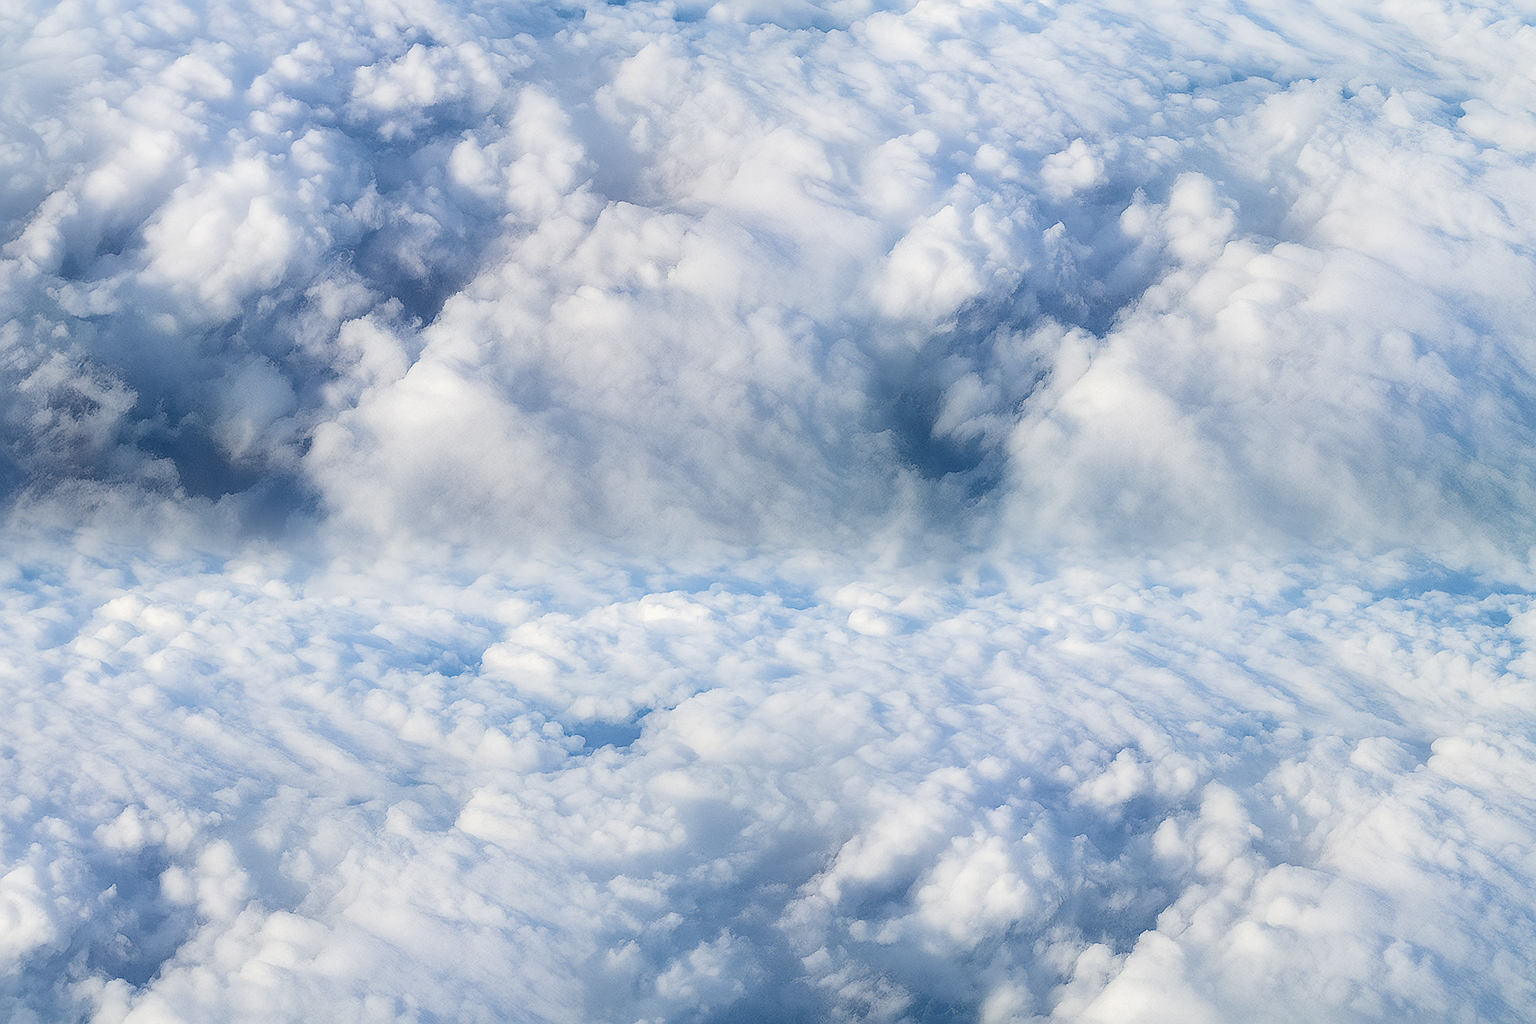
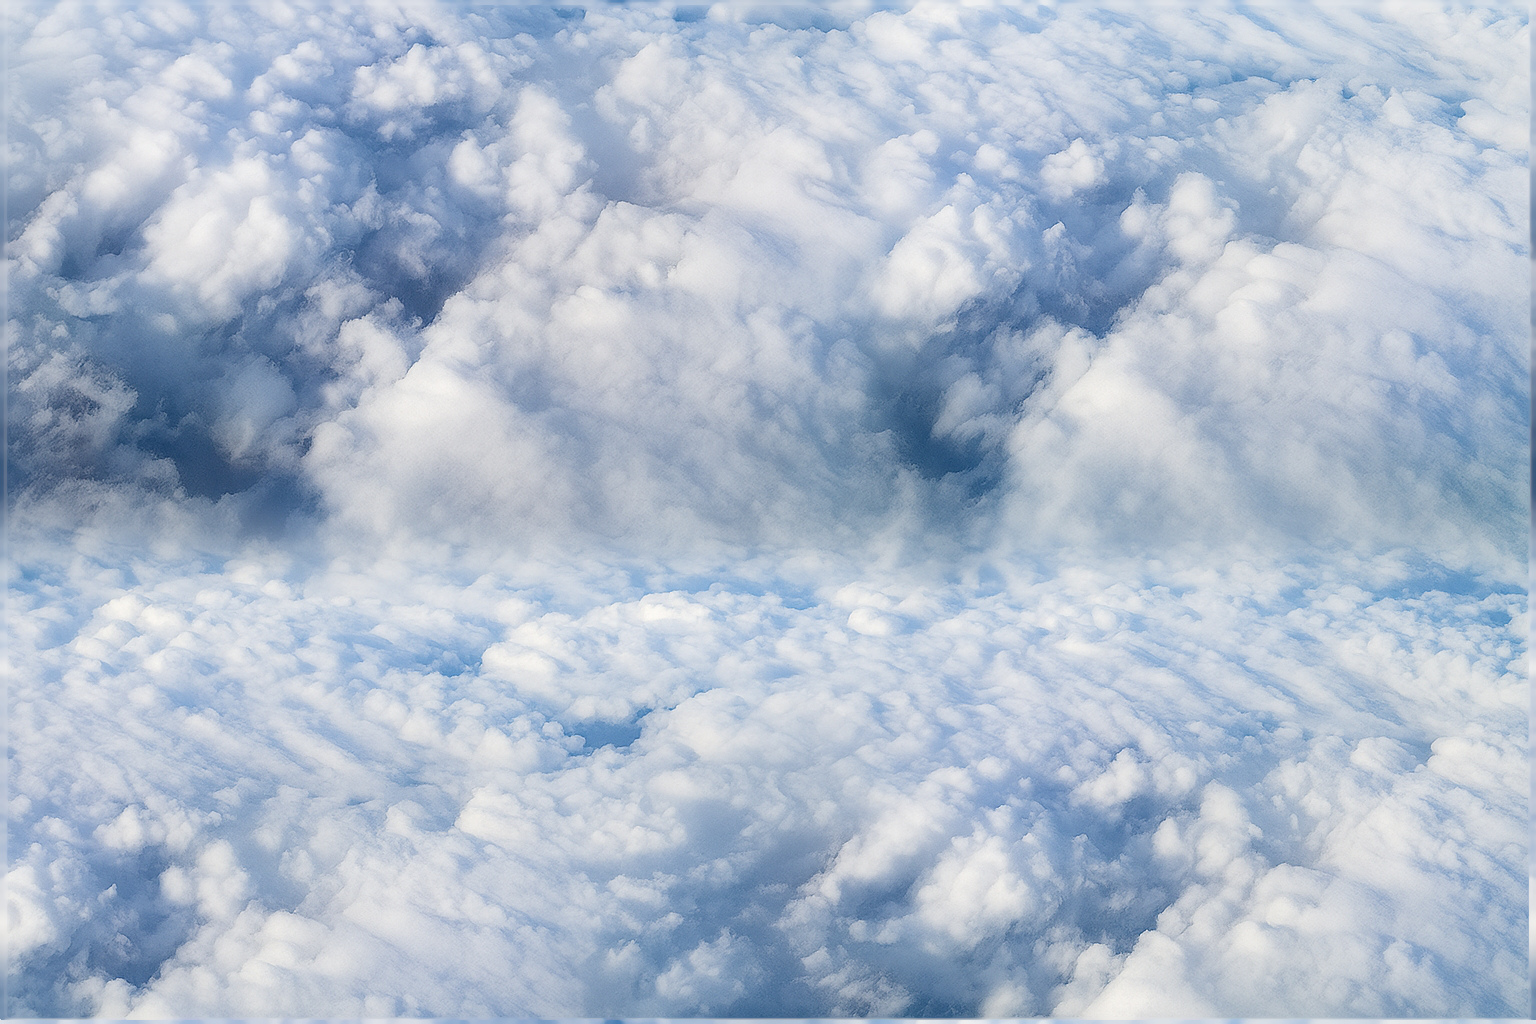
cleared error with crazy saving happening because apostrophe was getting unescaped or something strange.. todo should be dealing with that and only escaping in the database parts?

diff --git a/client/src/components/notes.js b/client/src/components/notes.js
@@ -10,6 +10,7 @@ axios.defaults.withCredentials = true;
 
 const Notes = props => {
   const [pinnedNote, setPinnedNote] = useState(false);
+  const [lastSavedValue, setLastSavedValue] = useState('');
   const [isPrivateNote, setIsPrivateNote] = useState(0);
   const [privateText, setPrivateText] = useState('Private Mode is Off');
   const [verificationMessage, setVerificationMessage] = useState(null);
@@ -44,19 +45,20 @@ const Notes = props => {
   }, [dataCurrentNote]);
 
   useEffect(() => {
-    const e = {};
-    e.preventDefault = () => {
-      return false;
-    };
+    const e = {preventDefault: () => false};
 
-    const waitTwoSecondsBeforeSubmitting = setTimeout(() => {
+    const timeout = setTimeout(() => {
       if (!loadOnce) {
         setLoadOnce(true);
       } else {
-        handleSubmit(e);
+        // Only save if the value actually changed
+        if (value !== lastSavedValue) {
+          handleSubmit(e);
+        }
       }
     }, 1000);
-    return () => clearTimeout(waitTwoSecondsBeforeSubmitting);
+
+    return () => clearTimeout(timeout);
   }, [value]);
 
   const handleKeyPress = event => {
@@ -339,9 +341,7 @@ const Notes = props => {
   const handleSubmit = e => {
     let passedUpdateData = value;
     if (passedUpdateData) {
-      //sql statements seem to error unless we replace these characters before making a query.
-      passedUpdateData = encodeURIComponent(passedUpdateData);
-      passedUpdateData = passedUpdateData
+      passedUpdateData = encodeURIComponent(passedUpdateData)
         .replace(/;/g, '&amp;')
         .replace(/</g, '&lt;')
         .replace(/>/g, '&gt;')
@@ -350,14 +350,12 @@ const Notes = props => {
 
       const updateNote = async passedUpdateData => {
         try {
-          if (isLoggedIn) {
-            if (!!value) {
-              updateNoteAndVerification(passedUpdateData);
-            }
+          if (isLoggedIn && !!value) {
+            await updateNoteAndVerification(passedUpdateData);
+            setLastSavedValue(value); // ✅ mark as saved
           }
         } catch (error) {
           setVerificationMessage('Some kind of error occured:' + error);
-          setValue(unescape(value));
           console.error(error);
         }
       };
@@ -512,143 +510,160 @@ const Notes = props => {
         className={`header ${isPrivateNote && isLoggedIn && userOnOwnPath() && 'pure-button-primary'}`}
       >
         <div className="tab-bar">
-          {(!isPrivateNote || (userOnOwnPath() && isLoggedIn)) && (
-            <ul className="subnotes-tabs">
-              <div
-                onClick={() => setShowSection('write')}
-                className={`tab search-tab ${showSection === 'write' ? 'active-tab' : ''}`}
-              >
-                Write
-              </div>
-              <div
-                onClick={() => setShowSection('read')}
-                className={`tab search-tab ${showSection === 'read' ? 'active-tab' : ''}`}
-              >
-                Read
-              </div>
-              <div
-                onClick={() => setShowSection('search')}
-                className={`tab search-tab ${showSection === 'search' ? 'active-tab' : ''}`}
-              >
-                Search
-              </div>
-              {childNotes.map((e, i) => (
-                <li className="tab" key={i}>
-                  <Link to={`${props.match.url.replace(/\/+$/, '')}/${e}`}>
-                    {e}
-                  </Link>
-                </li>
+          <ul className="subnotes-tabs">
+            <div
+              onClick={() => setShowSection('read')}
+              className={`tab search-tab ${showSection === 'read' ? 'active-tab' : ''}`}
+            >
+              Read
+            </div>
+            {(userOnOwnPath() && isLoggedIn) ||
+              (userCreds.username === 'eric' && (
+                <div
+                  onClick={() => setShowSection('write')}
+                  className={`tab search-tab ${showSection === 'write' ? 'active-tab' : ''}`}
+                >
+                  Write
+                </div>
               ))}
-            </ul>
-          )}
+            <div
+              onClick={() => setShowSection('search')}
+              className={`tab search-tab ${showSection === 'search' ? 'active-tab' : ''}`}
+            >
+              Search
+            </div>
+            {childNotes.map((e, i) => (
+              <li className="tab" key={i}>
+                <Link to={`${props.match.url.replace(/\/+$/, '')}/${e}`}>
+                  {e}
+                </Link>
+              </li>
+            ))}
+          </ul>
         </div>
       </div>
 
       <div className="noteContentContainer">
-      {showSection === 'search' && <SearchNotes baseURL={props.baseURL} />}
-        {showSection === 'write' && (
-          <div className="noteWriteContent">
-            {/*TODO: put this in a better div*/}
-            <h1>{toTitleCase(props.match.params.id)}</h1>
-          {/*TODO: think about subnotes on production.. this temp fix gets things renabled for yourself
-          && userOnOwnPath()
-          */}
-            {isLoggedIn && (
-              <div>
-                <div className="topRow">
-                  <p className="verificationMessage">{verificationMessage} </p>
-                  <br />
-                  <button
-                    style={hidden}
-                    className={`pure-button pure-button-primary private-button ${
-                      !!isPrivateNote && userOnOwnPath() && 'toggleRed-button'
-                    }`}
-                    onClick={handlePrivate}
-                  >
-                    {privateText}
-                  </button>
-                  {!!dateCreated && (
-                    <button
-                      className="pure-button pure-button-primary bar-button"
-                      onClick={moveNote}
-                    >
-                      Move / Rename
-                    </button>
-                  )}
-                  {!!dateModified && (
-                    <button
-                      className={`pure-button pure-button-primary bar-button ${
-                        !!pinnedNote && 'toggleRed-button'
-                      }`}
-                      onClick={setPinNote}
-                    >
-                      {!!pinnedNote ? 'UnPin' : 'Pin'}
-                    </button>
-                  )}
-                </div>
-                <div
-                  style={hidden}
-                  className="pure-form pure-form-aligned createNote"
-                >
-                  <fieldset>
-                    <div className="pure-control-group">
-                      <div className="pure-control-group">
-                        <textarea
-                          onChange={event =>
-                            setValue(unescape(event.target.value))
-                          }
-                          onKeyPress={event => handleKeyPress(event)}
-                          id="message_textarea"
-                          type="text"
-                          value={decodeHtml(value)}
-                          placeholder="Create"
-                          ref={textAreaRef}
-                        />
-                      </div>
-                    </div>
-                    <button
-                      type="submit"
-                      onClick={handleSubmit}
-                      className="pure-button pure-button-primary messageSubmit-button"
-                    >
-                      Submit
-                    </button>
-                    <button
-                      className="pure-button pure-button-primary deleteNote-button"
-                      onClick={handleDelete}
-                    >
-                      Delete
-                    </button>
-                    <p className="verificationMessage">
-                      {' '}
-                      {verificationMessage}{' '}
-                    </p>
-                  </fieldset>
-                </div>
-              </div>
-            )}
-          </div>
-        )}
-
+        {showSection === 'search' && <SearchNotes baseURL={props.baseURL} />}
         {showSection === 'read' && (
           <div className="noteWriteContent">
             <div
-              className={`leftSide ${!(isLoggedIn) ? '' : ''}`}// makeCenter css class in after the ? // && userOnOwnPath()
+              className={`leftSide ${!isLoggedIn ? '' : ''}`} // makeCenter css class in after the ? // && userOnOwnPath()
             >
-              {(!isPrivateNote || (isLoggedIn)) && (// && userOnOwnPath()
+              {(!isPrivateNote || isLoggedIn) && ( // && userOnOwnPath()
                 <div
                   dangerouslySetInnerHTML={{
                     __html: unescape(value.replace(/\n/g, '<br />')),
                   }}
                 />
               )}
-              {(!isPrivateNote ||
-                (isPrivateNote && isLoggedIn )) &&// && userOnOwnPath()
+              {(!isPrivateNote || (isPrivateNote && isLoggedIn)) && // && userOnOwnPath()
                 dateModified && <p>Date Modified: {dateModified}</p>}
-              {(!isPrivateNote ||
-                (isPrivateNote && isLoggedIn )) &&// && userOnOwnPath()
+              {(!isPrivateNote || (isPrivateNote && isLoggedIn)) && // && userOnOwnPath()
                 dateCreated && <p>Date Created: {dateCreated}</p>}
             </div>
+          </div>
+        )}
+
+        {showSection === 'write' && (
+          <div className="noteWriteContent">
+            {/*TODO: put this in a better div*/}
+            <h1>{toTitleCase(props.match.params.id)}</h1>
+            {/*TODO: think about subnotes on production.. this temp fix gets things renabled for yourself
+          && userOnOwnPath()
+          */}
+            {(isLoggedIn && userOnOwnPath()) ||
+              (userCreds.username === 'eric' && (
+                <div>
+                  <div className="topRow">
+                    {isPrivateNote ? (
+                      <svg
+                        class="lock-icon"
+                        style={{width: '30px'}}
+                        xmlns="http://www.w3.org/2000/svg"
+                        viewBox="0 0 24 24"
+                        fill="none"
+                        stroke="red"
+                        stroke-width="2"
+                      >
+                        <path d="M17 10V7a5 5 0 0 0-10 0v3M5 10h14a2 2 0 0 1 2 2v8a2 2 0 0 1-2 2H5a2 2 0 0 1-2-2v-8a2 2 0 0 1 2-2z" />
+                      </svg>
+                    ) : (
+                      ''
+                    )}
+                    <p className="verificationMessage">
+                      {verificationMessage}{' '}
+                    </p>
+                    <br />
+                    <button
+                      style={hidden}
+                      className={`pure-button pure-button-primary private-button ${
+                        !!isPrivateNote && userOnOwnPath() && 'toggleRed-button'
+                      }`}
+                      onClick={handlePrivate}
+                    >
+                      {privateText}
+                    </button>
+                    {!!dateCreated && (
+                      <button
+                        className="pure-button pure-button-primary bar-button"
+                        onClick={moveNote}
+                      >
+                        Move / Rename
+                      </button>
+                    )}
+                    {!!dateModified && (
+                      <button
+                        className={`pure-button pure-button-primary bar-button ${
+                          !!pinnedNote && 'toggleRed-button'
+                        }`}
+                        onClick={setPinNote}
+                      >
+                        {!!pinnedNote ? 'UnPin' : 'Pin'}
+                      </button>
+                    )}
+                  </div>
+                  <div
+                    style={hidden}
+                    className="pure-form pure-form-aligned createNote"
+                  >
+                    <fieldset>
+                      <div className="pure-control-group">
+                        <div className="pure-control-group">
+                          <textarea
+                            onChange={event =>
+                              setValue(unescape(event.target.value))
+                            }
+                            onKeyPress={event => handleKeyPress(event)}
+                            id="message_textarea"
+                            type="text"
+                            value={decodeHtml(value)}
+                            placeholder="Create"
+                            ref={textAreaRef}
+                          />
+                        </div>
+                      </div>
+                      <button
+                        type="submit"
+                        onClick={handleSubmit}
+                        className="pure-button pure-button-primary messageSubmit-button"
+                      >
+                        Submit
+                      </button>
+                      <button
+                        className="pure-button pure-button-primary deleteNote-button"
+                        onClick={handleDelete}
+                      >
+                        Delete
+                      </button>
+                      <p className="verificationMessage">
+                        {' '}
+                        {verificationMessage}{' '}
+                      </p>
+                    </fieldset>
+                  </div>
+                </div>
+              ))}
           </div>
         )}
       </div>

diff --git a/client/src/index.css b/client/src/index.css
@@ -8,7 +8,7 @@ body {
   /*background: url('/images/paper/completebook.png') repeat;*/
   /*background: url('/images/paper/longdeskcompletebook.png') repeat;*/
   /*background: url('/images/paper/oldschoolbook.png') repeat;*/
-  background: url('/images/background/seamlessClouds.png') repeat;
+  background: url('/images/background/repeatedClouds2.jpg') repeat;
   background-position: -200px -300px;
   @media (min-width: 48em) {
     background-position: 0 0;
